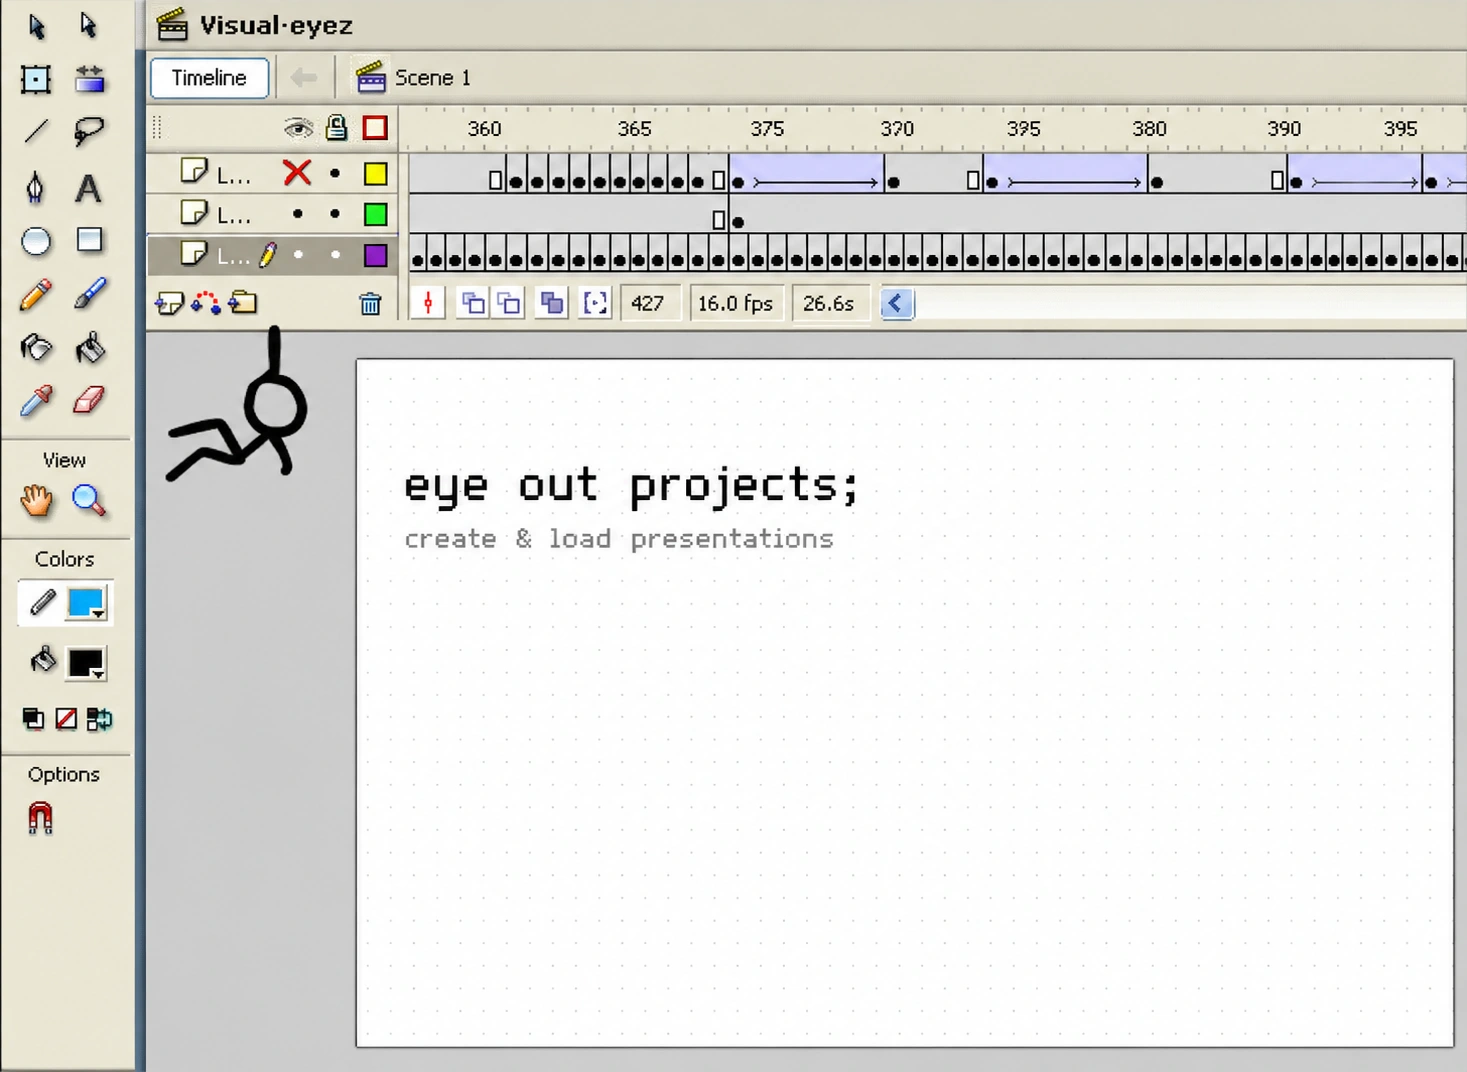
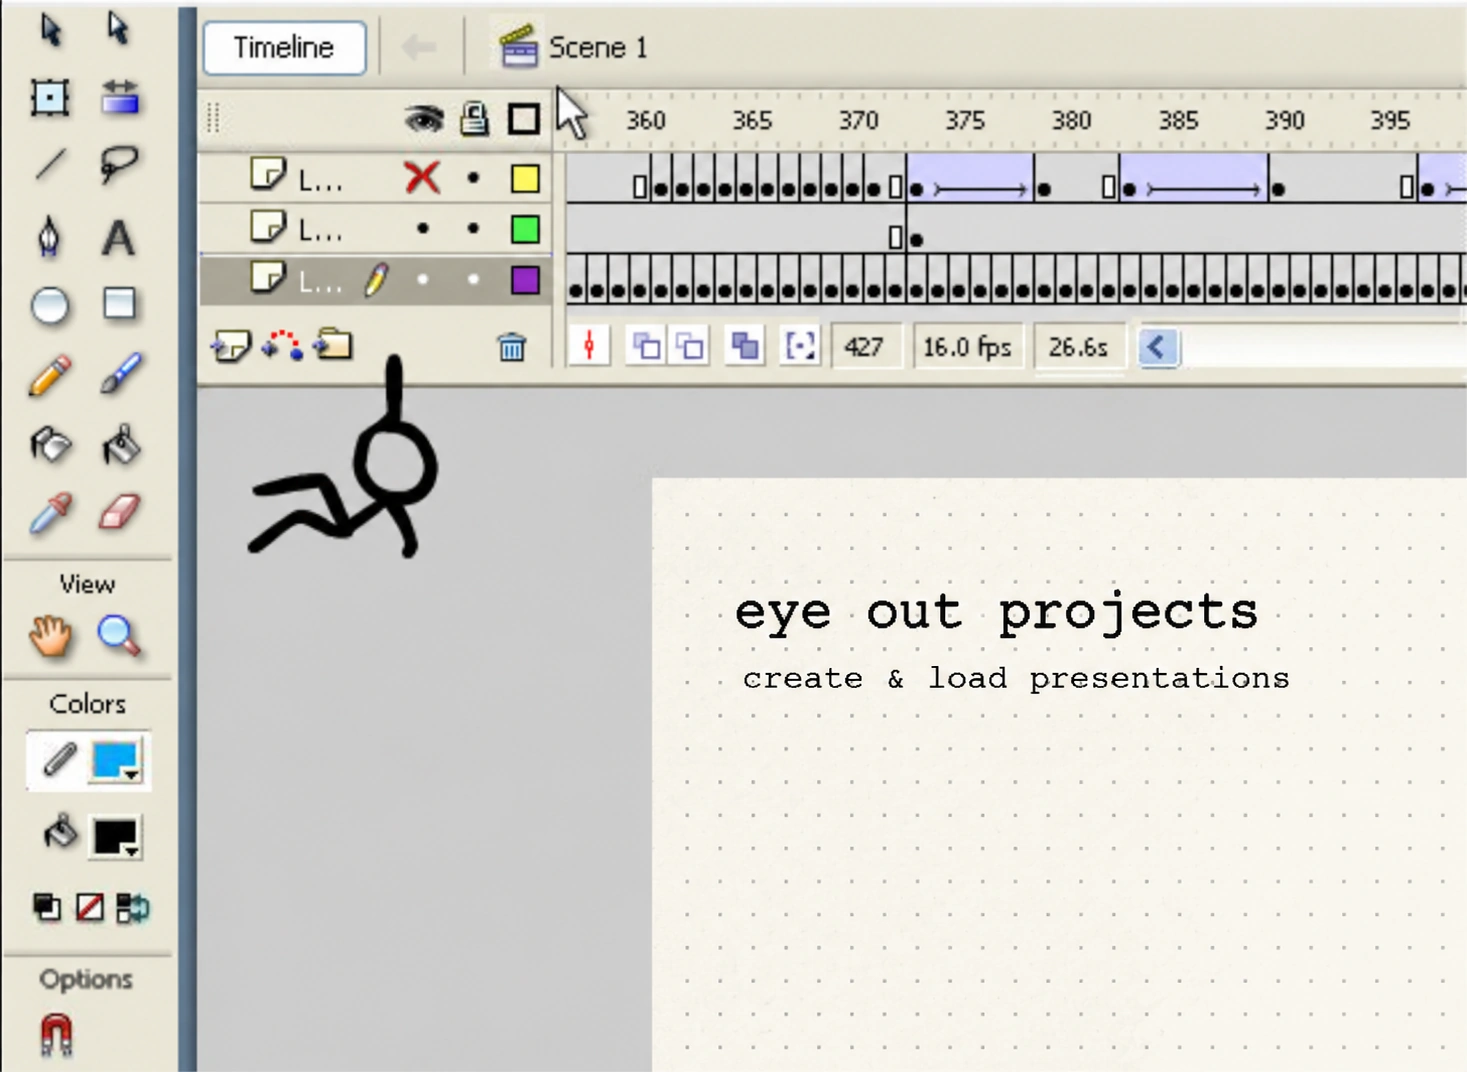
Replace Visualeyez thumbnail with cropped Flash dotted-paper artwork

diff --git a/index.html b/index.html
@@ -77,7 +77,7 @@
     const prepaint=`<style id="biglwa-clean-prepaint">body.biglwa-session-pending #loginPage{visibility:hidden!important;opacity:0!important;pointer-events:none!important}body.biglwa-auth-resolved #loginPage{visibility:visible!important;opacity:1!important;pointer-events:auto!important}#loginPage .login-stage>.login-brand-row,#loginPage .login-stage>.login-brand{display:none!important}#studioApp .studio-brand-row>a.brand{font-size:0!important;color:transparent!important;text-shadow:none!important}.widget-window-controls{visibility:visible!important;opacity:1!important}.card-head>.arrow-btn{visibility:hidden!important}#studioApp .scribble,#loginPage .login-foot{display:none!important}#studioApp .profile-card,#studioApp .welcome strong{visibility:hidden!important}body.biglwa-identity-ready #studioApp .profile-card,body.biglwa-identity-ready #studioApp .welcome strong{visibility:visible!important}#studioApp #wallpaperPanel.wallpaper-panel{display:none!important;visibility:hidden!important}#studioApp #sidebarCollapse{display:flex!important}#studioApp .search-wrap{max-width:none!important;width:100%!important;justify-self:stretch!important}</style>`;
     const imageCss=`<link rel="stylesheet" href="/stitched-crest.css?v=20260918-mask-fix-3"><link rel="stylesheet" href="/login-emblem-inline.css?v=20260918-larger-crest-4"><link rel="stylesheet" href="/topbar-lockup-inline.css?v=20260918-crest-topbar-1">`;
     const brandPolicyCss=`<link rel="stylesheet" href="/brand-policy.css?v=20261028-avatar-initial-guard-1">`;
-const scripts='<link rel="stylesheet" href="/profile-preview-repair.css?v=20261030-chrome-visibility-1"><script defer src="/profile-preview-repair.js?v=20261030-visibility-1"></scr'+'ipt><link rel="stylesheet" href="/social-hub.css?v=20261029-social-1"><script defer src="/social-hub.js?v=20261029-social-4&review=20261029-1&preview=20261029-repair-1"></scr' + 'ipt><script type="module" src="/media-viewport.js?v=1">'+'</scr'+'ipt>'+'<script type="module" src="/tiktok-owned-import.js?v=1">'+'</scr'+'ipt>'+'<script src="/imported-profile-highlights.js?v=3&edit=20261026">'+'</scr'+'ipt>'+'<link rel="stylesheet" href="/trophy-achievement-map.css?v=1">'+'<script src="/trophy-achievement-map.js?v=20261029-rank-only-1">'+'</scr'+'ipt>'+'<link rel="stylesheet" href="/tv-signal-states.css?v=20261022-source-1">' + '<script src="/tv-no-signal-fallback.js?v=20261025-photo-skeleton-1">'+'</scr'+'ipt>' + '<link rel="stylesheet" href="/media-placeholders.css?v=20261025-photo-skeleton-1">' + '<script src="/media-placeholders.js?v=20261026-src-reuse-1">'+'</scr'+'ipt>' + '<script src="/studio-account-boundary-20261019.js?v=account-gate-1&fix=chosen-initial-1&mood=20261026">'+'</scr'+'ipt>'+'<script src="/external-link-policy-20261018.js">'+'</scr'+'ipt>' + '<script src="/profile-module-sharing.js?v=20261026-public-orbit-boards-2&review=20261029-1">'+'</scr'+'ipt>'+'<link rel="stylesheet" href="/studio-type-politc-20261015.css?v=20261015-sqwib-legibility-5">' + '<link rel="stylesheet" href="/politc-poster-redesign-20261015.css?v=20261016-image-posters-3">' + '<link rel="stylesheet" href="/arcade-cabinet-20261016.css?v=20261016-hourglass-1">' + '<link rel="stylesheet" href="/orbit-planets-20261015.css?v=20261015-salmon-shadows-5">' + '<link rel="stylesheet" href="/orbit-season-20261016.css?v=20261016-uniform-no-override-2">' + '<link rel="stylesheet" href="/politc-orbit-tight-20261016.css?v=20261016-remove-orbit-flex-2">' + '<link rel="stylesheet" href="/arcade-veve-refine-20261016.css?v=20261016-socket-zoom-3">' + '<link rel="stylesheet" href="/arcade-playability-20261016.css?v=20261016-screen-fit-1">' + '<link rel="stylesheet" href="/arcade-folder-unified-20261017-v11.css">' + '<link rel="stylesheet" href="/arcade-curtain-folder-20261025.css?v=2">' + '<link rel="stylesheet" href="/arcade-cabinet-approved-20261025.css?v=4">' + '<link rel="stylesheet" href="/studio-cabinet-thumbnails-20261026.css?v=20261026-open-hd-4">' + '<link rel="stylesheet" href="/studio-yellow-collapse-20261026.css?v=20261026-1">' + '<link rel="stylesheet" href="/studio-spatial-drag-20261029.css?v=20261029-stable-flow-3">' + '<link rel="stylesheet" href="/studio-default-images-20261029.css?v=20261030-archive-night-1&review=20261029-1">' + '<link rel="stylesheet" href="/studio-myfeed-filmstrip-20261029.css?v=20261029-orbit-rainbow-film-3">' + '<link rel="stylesheet" href="/studio-machine-pages-20261029.css?v=20261029-1">' + '<link rel="stylesheet" href="/retro-browser-frames-20261029.css?v=20261029-old-web-1">' + '<link rel="stylesheet" href="/studio-lwazi-horizontal-20261029.css?v=20261029-short-browser-2">' + '<link rel="stylesheet" href="/retro-browser-pages-20261029.css?v=20261029-one-rectangle-4">' + '<script defer src="/retro-browser-pages-20261029.js?v=20261029-colored-buttons-2">' + '</scr'+'ipt>' + '<script src="/studio-yellow-collapse-20261026.js?v=20261029-universal-1">' + '</scr'+'ipt>' + '<script defer src="/studio-lwazi-thumbnail-20261026.js?v=20261029-horizontal-carousel-4">' + '</scr' + 'ipt>' + '<script defer src="/arcade-curtain-variants-20261025.js?v=2">'+'</scr'+'ipt>' + '<link rel="stylesheet" href="/orbit-media-status-20261016.css?v=20261016-facebook-tiktok-1">' + '<link rel="stylesheet" href="/orbit-planets-original-restored-20261016.css?v=20261016-original-texture-1">' + '<link rel="stylesheet" href="/orbit-preview-eight-20261016.css?v=20261016-salmon-featured-3">' + '<link rel="stylesheet" href="/facebook-dual-login-20261016.css?v=20261016-dual-1">' + '<link rel="stylesheet" href="/orbit-cards-unified-20261016.css?v=20261017-orbit-inline-links-1">' + '<link rel="stylesheet" href="/orbit-expanded-sources-20261023.css?v=1">' + '<link rel="stylesheet" href="/pinterest-red-consistency-20261016.css?v=20261016-pinterest-red-2">' + '<link rel="stylesheet" href="/pinterest-created-feed-20261016.css?v=20261016-originals-sort-1">' + '<link rel="stylesheet" href="/writing-collections.css?v=20261029-journal-column-2">' + '<script>document.body.classList.add("biglwa-session-pending")' + '</scr' + 'ipt>' + '<script src="/map-route-guard.js?v=20261014-map-session-1">' + '</scr' + 'ipt>' + '<script src="/politc-route-guard.js?v=20261029-folder-seam-4">' + '</scr' + 'ipt>' + '<script src="/login-archive-player.js?v=20261022-floating-laptop-2">' + '</scr' + 'ipt>' + '<script src="/orbit-feed.js?v=20261015-mixed-source-6&fix=single-shadow-1">' + '</scr' + 'ipt>' + '<script src="/google-orbit.js?v=20261028-canonical-orbit-2">' + '</scr' + 'ipt>' + '<script src="/orbit-new-connect-20261018-v6.js?v=20261023-x-scope-diagnostic-5">' + '</scr' + 'ipt>' + '<script src="/facebook-personal-orbit-20261016.js?v=20261028-facebook-archive-sync-1">' + '</scr' + 'ipt>' + '<script src="/facebook-orbit.js?v=20261028-facebook-archive-refresh-2">' + '</scr' + 'ipt>' + '<script src="/instagram-orbit.js?v=20261028-ig-insights-1">' + '</scr' + 'ipt>' + '<script src="/tiktok-orbit.js?v=20261028-oauth-return-2">' + '</scr' + 'ipt>' + '<script src="/tiktok-creator-profile-embed.js?v=20261024-unified-links-2">' + '</scr' + 'ipt>' + '<script src="/profile-social-showcase.js?v=20261029-banner-archive-1">' + '</scr' + 'ipt>' + '<script src="/tiktok-external-stats.js?v=20261028-monthly-reach-label-2">' + '</scr' + 'ipt>' + '<link rel="stylesheet" href="/stream-guide.css?v=20261028-stream-tools-top-1">' + '<script src="/stream-guide.js?v=20261028-stream-tools-top-1">' + '</scr' + 'ipt>' + '<script type="module" src="/assets/media-elements/loader.js?v=20261023-mux-mit-1">' + '</scr' + 'ipt>' + '<link rel="stylesheet" href="/sqwip.css?v=20261014-horizontal-pages-4">' + '<script src="/sqwip.js?v=20261014-horizontal-pages-2">' + '</scr' + 'ipt>' + '<link rel="stylesheet" href="/veve.css?v=20261023-orbit-colors-7-single-header-3">' + '<script src="/sqwib-public.js?v=20261014-sqwib-permissions-1">' + '</scr' + 'ipt>' + '<script src="/veve.js?v=20261027-lwazi-interest-sensitivity-1&social=20261029-v4">' + '</scr' + 'ipt>' + '<script src="/writing-collections.js?v=20261021-interaction-fix-1">' + '</scr' + 'ipt>' + '<link rel="stylesheet" href="/source-shadow-key-20261025.css?v=1&fix=ivory-website-1">' + '<script src="/source-shadow-key-20261025.js?v=1&fix=ivory-website-1">' + '</scr' + 'ipt>' + '<script src="/un-observances.js?v=20261029-1">' + '</scr' + 'ipt>' + '<script src="/studio-weather.js?v=20261029-1">' + '</scr' + 'ipt>' + '<script src="/module-pages.js?v=20261029-single-panel-10&social=20261029-v2&review=20261029-1&preview=20261029-media-1">' + '</scr' + 'ipt>' + '<script src="/orbit-satellite-bridges-20261023.js?v=1">' + '</scr' + 'ipt>' + '<script src="/project-canvas.js?v=20261026-rich-import-text-1">' + '</scr' + 'ipt>' + '<script src="/avatar-studio-bitmoji-20261017-v3.js?v=20261026-publish-avatar-1">' + '</scr' + 'ipt>' + '<script src="/pinterest-orbit.js?v=20261028-oauth-return-2&browse=20261030-all-boards-1">' + '</scr' + 'ipt>' + '<script src="/library-catalog.js?v=20260927-source-links-1">' + '</scr' + 'ipt>' + '<script src="/wallpaper-safety.js?v=20260913-local-scan-3">' + '</scr' + 'ipt>' + '<script src="/wallpaper-cloud.js?v=20261027-auto-allow-review-logs-1&preview=20261029-repair-1">' + '</scr' + 'ipt>' + '<script src="/analytics-format.js?v=20261028-shared-metric-1">' + '</scr' + 'ipt>' + '<script src="/ui-coherence.js?v=20261029-shortcut-red-state-2&masthead=canonical-4&registry=all-routes-1&review=20261029-1">' + '</scr' + 'ipt>' + '<script src="/studio-spatial-drag-20261029.js?v=20261029-route-inset-4&guide=reserved-1">' + '</scr' + 'ipt>' + '<script defer src="/studio-default-images-20261029.js?v=20261030-visualeyez-thumbnail-1">' + '</scr' + 'ipt>' + '<link rel="stylesheet" href="/studio-tipi-navigation-20261026.css?v=20261029-uniform-archive-1&masthead=canonical-4&glyph=1&crest-tipi=optical-1">' + '<script src="/studio-tipi-navigation-20261026.js?v=20261029-uniform-archive-1&masthead=canonical-4&ink=preserved-1">' + '</scr' + 'ipt>' + '<link rel="stylesheet" href="/profile-highlight-editor.css?v=20261029-drag-masonry-4">' + '<script src="/profile-highlight-editor.js?v=20261029-drag-masonry-4">' + '</scr' + 'ipt>' + '<script src="/studio-appearance.js?v=20261027-public-appearance-isolation-3&preview=20261029-repair-1">' + '</scr' + 'ipt>' + '<script src="/studio-media-adjust-20261027.js?v=20261027-first-drag-1">' + '</scr' + 'ipt>' + '<script src="/studio-experience.js?v=20261028-canonical-tipi-1&social=20261029-1">' + '</scr' + 'ipt>' + '<script src="/profile-music.js?v=20261015-profile-tracks-1">' + '</scr' + 'ipt>' + '<script src="/supporter-logos.js?v=20260913-public-supporters-2">' + '</scr' + 'ipt>' + '<script src="/policy-card-cohesion.js?v=20261026-expanded-supporters-1">' + '</scr' + 'ipt>' +    '<link rel="stylesheet" href="/studio-key-trophy-consistency-20261026.css?v=1&review=20261029-1">' +
+const scripts='<link rel="stylesheet" href="/profile-preview-repair.css?v=20261030-chrome-visibility-1"><script defer src="/profile-preview-repair.js?v=20261030-visibility-1"></scr'+'ipt><link rel="stylesheet" href="/social-hub.css?v=20261029-social-1"><script defer src="/social-hub.js?v=20261029-social-4&review=20261029-1&preview=20261029-repair-1"></scr' + 'ipt><script type="module" src="/media-viewport.js?v=1">'+'</scr'+'ipt>'+'<script type="module" src="/tiktok-owned-import.js?v=1">'+'</scr'+'ipt>'+'<script src="/imported-profile-highlights.js?v=3&edit=20261026">'+'</scr'+'ipt>'+'<link rel="stylesheet" href="/trophy-achievement-map.css?v=1">'+'<script src="/trophy-achievement-map.js?v=20261029-rank-only-1">'+'</scr'+'ipt>'+'<link rel="stylesheet" href="/tv-signal-states.css?v=20261022-source-1">' + '<script src="/tv-no-signal-fallback.js?v=20261025-photo-skeleton-1">'+'</scr'+'ipt>' + '<link rel="stylesheet" href="/media-placeholders.css?v=20261025-photo-skeleton-1">' + '<script src="/media-placeholders.js?v=20261026-src-reuse-1">'+'</scr'+'ipt>' + '<script src="/studio-account-boundary-20261019.js?v=account-gate-1&fix=chosen-initial-1&mood=20261026">'+'</scr'+'ipt>'+'<script src="/external-link-policy-20261018.js">'+'</scr'+'ipt>' + '<script src="/profile-module-sharing.js?v=20261026-public-orbit-boards-2&review=20261029-1">'+'</scr'+'ipt>'+'<link rel="stylesheet" href="/studio-type-politc-20261015.css?v=20261015-sqwib-legibility-5">' + '<link rel="stylesheet" href="/politc-poster-redesign-20261015.css?v=20261016-image-posters-3">' + '<link rel="stylesheet" href="/arcade-cabinet-20261016.css?v=20261016-hourglass-1">' + '<link rel="stylesheet" href="/orbit-planets-20261015.css?v=20261015-salmon-shadows-5">' + '<link rel="stylesheet" href="/orbit-season-20261016.css?v=20261016-uniform-no-override-2">' + '<link rel="stylesheet" href="/politc-orbit-tight-20261016.css?v=20261016-remove-orbit-flex-2">' + '<link rel="stylesheet" href="/arcade-veve-refine-20261016.css?v=20261016-socket-zoom-3">' + '<link rel="stylesheet" href="/arcade-playability-20261016.css?v=20261016-screen-fit-1">' + '<link rel="stylesheet" href="/arcade-folder-unified-20261017-v11.css">' + '<link rel="stylesheet" href="/arcade-curtain-folder-20261025.css?v=2">' + '<link rel="stylesheet" href="/arcade-cabinet-approved-20261025.css?v=4">' + '<link rel="stylesheet" href="/studio-cabinet-thumbnails-20261026.css?v=20261026-open-hd-4">' + '<link rel="stylesheet" href="/studio-yellow-collapse-20261026.css?v=20261026-1">' + '<link rel="stylesheet" href="/studio-spatial-drag-20261029.css?v=20261029-stable-flow-3">' + '<link rel="stylesheet" href="/studio-default-images-20261029.css?v=20261030-archive-night-1&review=20261029-1">' + '<link rel="stylesheet" href="/studio-myfeed-filmstrip-20261029.css?v=20261029-orbit-rainbow-film-3">' + '<link rel="stylesheet" href="/studio-machine-pages-20261029.css?v=20261029-1">' + '<link rel="stylesheet" href="/retro-browser-frames-20261029.css?v=20261029-old-web-1">' + '<link rel="stylesheet" href="/studio-lwazi-horizontal-20261029.css?v=20261029-short-browser-2">' + '<link rel="stylesheet" href="/retro-browser-pages-20261029.css?v=20261029-one-rectangle-4">' + '<script defer src="/retro-browser-pages-20261029.js?v=20261029-colored-buttons-2">' + '</scr'+'ipt>' + '<script src="/studio-yellow-collapse-20261026.js?v=20261029-universal-1">' + '</scr'+'ipt>' + '<script defer src="/studio-lwazi-thumbnail-20261026.js?v=20261029-horizontal-carousel-4">' + '</scr' + 'ipt>' + '<script defer src="/arcade-curtain-variants-20261025.js?v=2">'+'</scr'+'ipt>' + '<link rel="stylesheet" href="/orbit-media-status-20261016.css?v=20261016-facebook-tiktok-1">' + '<link rel="stylesheet" href="/orbit-planets-original-restored-20261016.css?v=20261016-original-texture-1">' + '<link rel="stylesheet" href="/orbit-preview-eight-20261016.css?v=20261016-salmon-featured-3">' + '<link rel="stylesheet" href="/facebook-dual-login-20261016.css?v=20261016-dual-1">' + '<link rel="stylesheet" href="/orbit-cards-unified-20261016.css?v=20261017-orbit-inline-links-1">' + '<link rel="stylesheet" href="/orbit-expanded-sources-20261023.css?v=1">' + '<link rel="stylesheet" href="/pinterest-red-consistency-20261016.css?v=20261016-pinterest-red-2">' + '<link rel="stylesheet" href="/pinterest-created-feed-20261016.css?v=20261016-originals-sort-1">' + '<link rel="stylesheet" href="/writing-collections.css?v=20261029-journal-column-2">' + '<script>document.body.classList.add("biglwa-session-pending")' + '</scr' + 'ipt>' + '<script src="/map-route-guard.js?v=20261014-map-session-1">' + '</scr' + 'ipt>' + '<script src="/politc-route-guard.js?v=20261029-folder-seam-4">' + '</scr' + 'ipt>' + '<script src="/login-archive-player.js?v=20261022-floating-laptop-2">' + '</scr' + 'ipt>' + '<script src="/orbit-feed.js?v=20261015-mixed-source-6&fix=single-shadow-1">' + '</scr' + 'ipt>' + '<script src="/google-orbit.js?v=20261028-canonical-orbit-2">' + '</scr' + 'ipt>' + '<script src="/orbit-new-connect-20261018-v6.js?v=20261023-x-scope-diagnostic-5">' + '</scr' + 'ipt>' + '<script src="/facebook-personal-orbit-20261016.js?v=20261028-facebook-archive-sync-1">' + '</scr' + 'ipt>' + '<script src="/facebook-orbit.js?v=20261028-facebook-archive-refresh-2">' + '</scr' + 'ipt>' + '<script src="/instagram-orbit.js?v=20261028-ig-insights-1">' + '</scr' + 'ipt>' + '<script src="/tiktok-orbit.js?v=20261028-oauth-return-2">' + '</scr' + 'ipt>' + '<script src="/tiktok-creator-profile-embed.js?v=20261024-unified-links-2">' + '</scr' + 'ipt>' + '<script src="/profile-social-showcase.js?v=20261029-banner-archive-1">' + '</scr' + 'ipt>' + '<script src="/tiktok-external-stats.js?v=20261028-monthly-reach-label-2">' + '</scr' + 'ipt>' + '<link rel="stylesheet" href="/stream-guide.css?v=20261028-stream-tools-top-1">' + '<script src="/stream-guide.js?v=20261028-stream-tools-top-1">' + '</scr' + 'ipt>' + '<script type="module" src="/assets/media-elements/loader.js?v=20261023-mux-mit-1">' + '</scr' + 'ipt>' + '<link rel="stylesheet" href="/sqwip.css?v=20261014-horizontal-pages-4">' + '<script src="/sqwip.js?v=20261014-horizontal-pages-2">' + '</scr' + 'ipt>' + '<link rel="stylesheet" href="/veve.css?v=20261023-orbit-colors-7-single-header-3">' + '<script src="/sqwib-public.js?v=20261014-sqwib-permissions-1">' + '</scr' + 'ipt>' + '<script src="/veve.js?v=20261027-lwazi-interest-sensitivity-1&social=20261029-v4">' + '</scr' + 'ipt>' + '<script src="/writing-collections.js?v=20261021-interaction-fix-1">' + '</scr' + 'ipt>' + '<link rel="stylesheet" href="/source-shadow-key-20261025.css?v=1&fix=ivory-website-1">' + '<script src="/source-shadow-key-20261025.js?v=1&fix=ivory-website-1">' + '</scr' + 'ipt>' + '<script src="/un-observances.js?v=20261029-1">' + '</scr' + 'ipt>' + '<script src="/studio-weather.js?v=20261029-1">' + '</scr' + 'ipt>' + '<script src="/module-pages.js?v=20261029-single-panel-10&social=20261029-v2&review=20261029-1&preview=20261029-media-1">' + '</scr' + 'ipt>' + '<script src="/orbit-satellite-bridges-20261023.js?v=1">' + '</scr' + 'ipt>' + '<script src="/project-canvas.js?v=20261026-rich-import-text-1">' + '</scr' + 'ipt>' + '<script src="/avatar-studio-bitmoji-20261017-v3.js?v=20261026-publish-avatar-1">' + '</scr' + 'ipt>' + '<script src="/pinterest-orbit.js?v=20261028-oauth-return-2&browse=20261030-all-boards-1">' + '</scr' + 'ipt>' + '<script src="/library-catalog.js?v=20260927-source-links-1">' + '</scr' + 'ipt>' + '<script src="/wallpaper-safety.js?v=20260913-local-scan-3">' + '</scr' + 'ipt>' + '<script src="/wallpaper-cloud.js?v=20261027-auto-allow-review-logs-1&preview=20261029-repair-1">' + '</scr' + 'ipt>' + '<script src="/analytics-format.js?v=20261028-shared-metric-1">' + '</scr' + 'ipt>' + '<script src="/ui-coherence.js?v=20261029-shortcut-red-state-2&masthead=canonical-4&registry=all-routes-1&review=20261029-1">' + '</scr' + 'ipt>' + '<script src="/studio-spatial-drag-20261029.js?v=20261029-route-inset-4&guide=reserved-1">' + '</scr' + 'ipt>' + '<script defer src="/studio-default-images-20261029.js?v=20261030-visualeyez-cropped-page-2">' + '</scr' + 'ipt>' + '<link rel="stylesheet" href="/studio-tipi-navigation-20261026.css?v=20261029-uniform-archive-1&masthead=canonical-4&glyph=1&crest-tipi=optical-1">' + '<script src="/studio-tipi-navigation-20261026.js?v=20261029-uniform-archive-1&masthead=canonical-4&ink=preserved-1">' + '</scr' + 'ipt>' + '<link rel="stylesheet" href="/profile-highlight-editor.css?v=20261029-drag-masonry-4">' + '<script src="/profile-highlight-editor.js?v=20261029-drag-masonry-4">' + '</scr' + 'ipt>' + '<script src="/studio-appearance.js?v=20261027-public-appearance-isolation-3&preview=20261029-repair-1">' + '</scr' + 'ipt>' + '<script src="/studio-media-adjust-20261027.js?v=20261027-first-drag-1">' + '</scr' + 'ipt>' + '<script src="/studio-experience.js?v=20261028-canonical-tipi-1&social=20261029-1">' + '</scr' + 'ipt>' + '<script src="/profile-music.js?v=20261015-profile-tracks-1">' + '</scr' + 'ipt>' + '<script src="/supporter-logos.js?v=20260913-public-supporters-2">' + '</scr' + 'ipt>' + '<script src="/policy-card-cohesion.js?v=20261026-expanded-supporters-1">' + '</scr' + 'ipt>' +    '<link rel="stylesheet" href="/studio-key-trophy-consistency-20261026.css?v=1&review=20261029-1">' +
    '<link rel="stylesheet" href="/studio-loading-consistency-20261026.css?v=20261026-header-isolation-5">' +
    '<link rel="stylesheet" href="/studio-loading-pixel-20261029.css?v=20261029-one-curtain-2">' +
    '<link rel="stylesheet" href="/lwazi-header-series-20261026.css?v=20261026-stream-inline-4">' +

diff --git a/studio-default-images-20261029.js b/studio-default-images-20261029.js
@@ -7,7 +7,7 @@
  const base='/assets/studio-defaults/';
  const images={
   archive:base+'archive-windows-hill.webp?v=20261029-win-default-2',
-  visualizr:base+'visualizr-dotted-canvas.webp',
+  visualizr:base+'visualizr-dotted-canvas.webp?v=20261030-cropped-page-2',
   map:base+'map-bikini-bottom-fallback.webp',
   trophy:base+'trophy-achievement-made.webp'
  };
